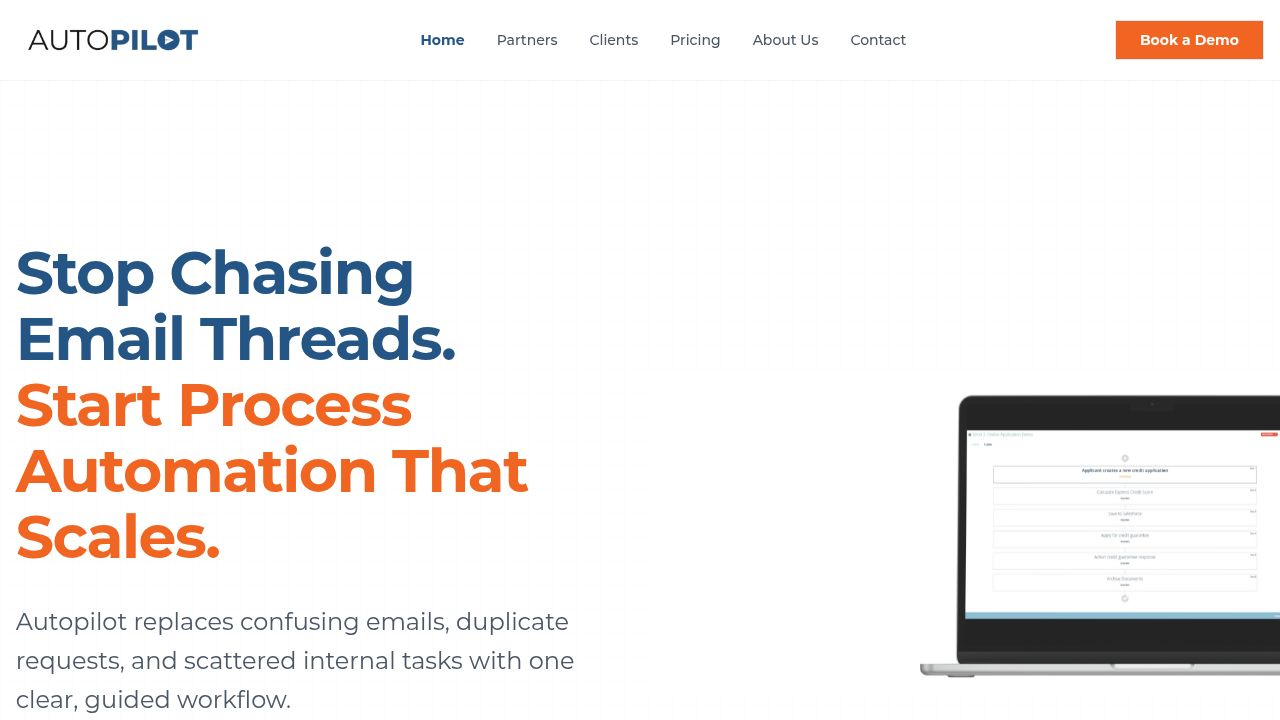
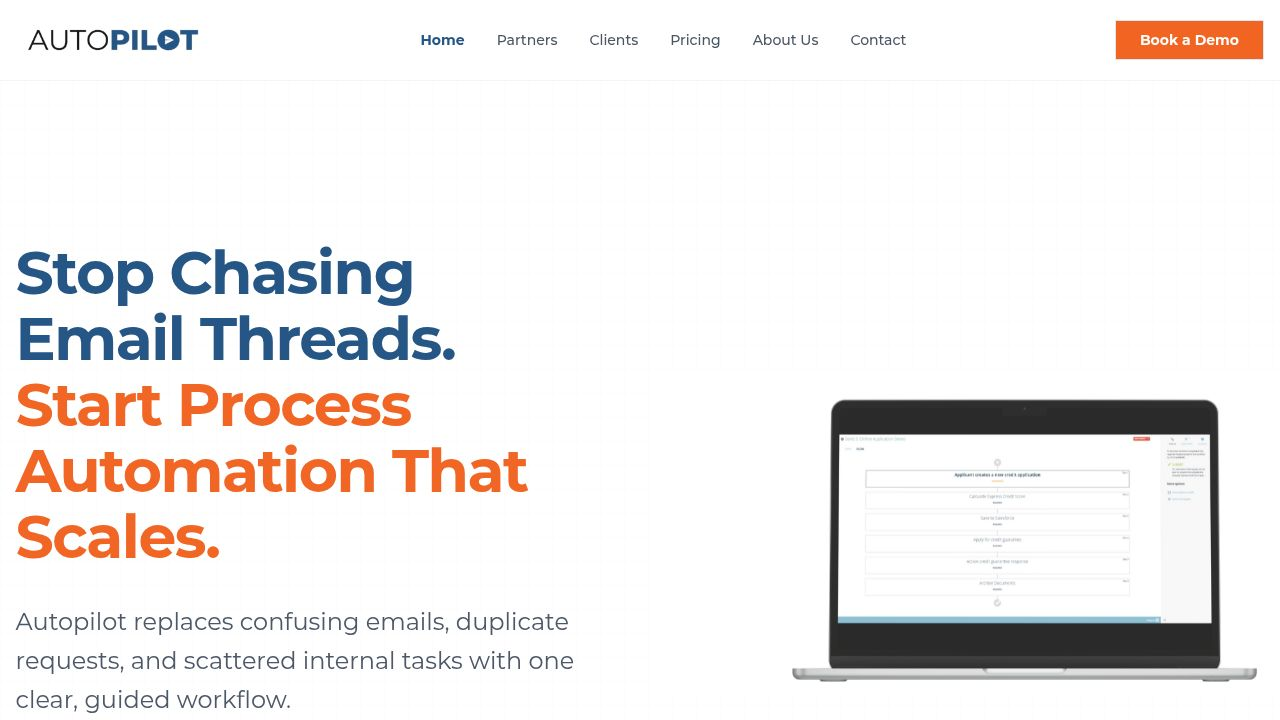
Update the main website header image with a new screenshot
Replaces the existing header image in the home page component with a new screenshot file.

Replit-Commit-Author: Agent
Replit-Commit-Session-Id: f87b6ba7-ae31-4692-99f8-e6a1dd25abe3
Replit-Commit-Checkpoint-Type: full_checkpoint
Replit-Commit-Event-Id: 0cc78672-b874-4dc3-b871-6d52f9fe47c8
Replit-Commit-Screenshot-Url: https://storage.googleapis.com/screenshot-production-us-central1/aca7a7d1-d848-433e-8ce3-e55676169eb2/f87b6ba7-ae31-4692-99f8-e6a1dd25abe3/PLYWrZ0
Replit-Helium-Checkpoint-Created: true

diff --git a/client/src/pages/home.tsx b/client/src/pages/home.tsx
@@ -26,7 +26,7 @@ import app_screenshot__1__Background_Removed from "@assets/app screenshot (1) Ba
 import app_screenshot_left from "@assets/app-screenshot-left.png";
 import AutopilotBackground from "@assets/autopilot-background_1767798365737.jpg";
 
-import Autopilot_app_screenshot_in_laptop from "@assets/Autopilot_app_screenshot_in_laptop_1770272012219.png";
+import Autopilot_app_screenshot_in_laptop from "@assets/Autopilot_app_screenshot_in_laptop_(1)_1770272351504.png";
 import MSPartnerBadge from "@assets/Autopilot_(2)_1770271633028.png";
 import LogoCoPilot from "@assets/copilot_1768826460167.png";
 import LogoTeams from "@assets/ms-teams_1768826460169.png";
